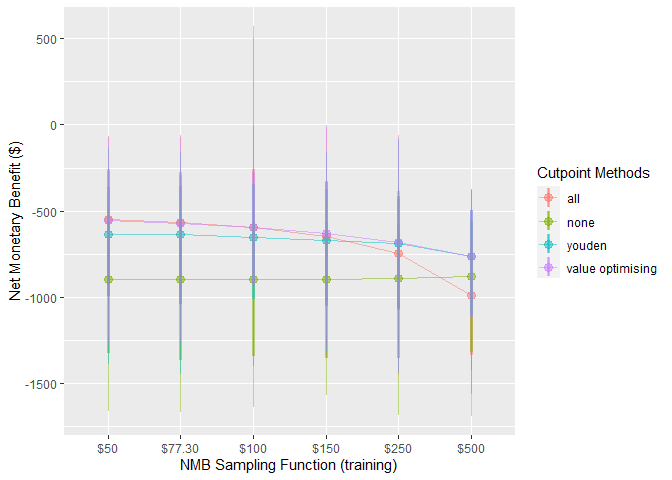
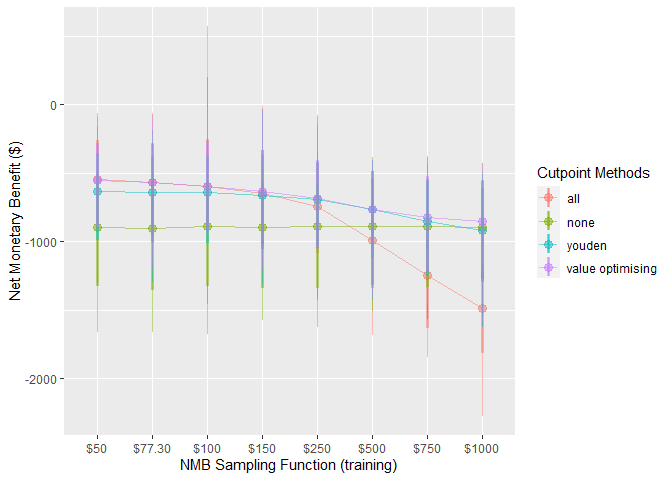
re-knit with new cost_screen obj

diff --git a/demo-code/predictNMB-demo-completed.md b/demo-code/predictNMB-demo-completed.md
@@ -163,10 +163,10 @@ summary(primary_sim)
     # A tibble: 4 × 3
       method           median `95% CI`         
       <chr>             <dbl> <chr>            
-    1 all               -582. -937.2 to -289.3 
-    2 none              -911. -1336.4 to -567.4
-    3 value optimising  -583. -965 to -291.4   
-    4 youden            -654. -1019.4 to -353.6
+    1 all               -580. -961.2 to -283.5 
+    2 none              -907. -1363.3 to -574.4
+    3 value optimising  -593. -965.3 to -297.8 
+    4 youden            -649. -1044.2 to -354.2
 
 ``` r
 autoplot(primary_sim) + theme_sim()
@@ -231,10 +231,10 @@ summary(acute_care_sim)
     # A tibble: 4 × 3
       method           median `95% CI`        
       <chr>             <dbl> <chr>           
-    1 all               -228. -334.2 to -135.4
-    2 none              -271. -407.8 to -169.9
-    3 value optimising  -209. -317.4 to -122.2
-    4 youden            -213. -325.5 to -123.5
+    1 all               -228. -339.8 to -140.1
+    2 none              -271. -418.4 to -168.7
+    3 value optimising  -209. -320.4 to -121.2
+    4 youden            -212. -323 to -127.8  
 
 ``` r
 summary(acute_care_sim, what = "cutpoints")
@@ -246,7 +246,7 @@ summary(acute_care_sim, what = "cutpoints")
     1 all                0    0 to 0  
     2 none               1    1 to 1  
     3 value optimising   0.02 0 to 0.1
-    4 youden             0.03 0 to 0.1
+    4 youden             0.04 0 to 0.1
 
 ``` r
 autoplot(acute_care_sim) + theme_sim()
@@ -303,15 +303,17 @@ cost_screen <- readRDS(gzcon(url("https://github.com/RWParsons/rmed2023-predictN
 summary(cost_screen)
 ```
 
-    # A tibble: 6 × 10
+    # A tibble: 8 × 10
       fx_nmb_train…¹ fx_nm…² all_m…³ all_9…⁴ none_…⁵ none_…⁶ youde…⁷ youde…⁸ value…⁹
       <chr>          <chr>     <dbl> <chr>     <dbl> <chr>     <dbl> <chr>     <dbl>
-    1 A-50           A-50      -546. -869.8…   -895. -1322.…   -633. -992 t…   -553.
-    2 B-77.30        B-77.30   -568. -949.6…   -898. -1368.…   -636. -1041.…   -571.
-    3 C-100          C-100     -594. -937.1…   -893. -1341.…   -653. -1014.…   -596.
-    4 D-150          D-150     -644. -1016.…   -893. -1352.…   -669. -1054.…   -631.
-    5 E-250          E-250     -743. -1075.…   -893. -1353.…   -690. -1062.…   -682.
-    6 F-500          F-500     -991. -1334.…   -880. -1320.…   -764. -1106.…   -763.
+    1 A-50           A-50      -543. -870.8…   -892. -1329.…   -629. -988.2…   -553.
+    2 B-77.30        B-77.30   -566. -928.5…   -904. -1357.…   -640. -1007.…   -568.
+    3 C-100          C-100     -597. -928 t…   -891. -1330.…   -643. -1013.…   -596.
+    4 D-150          D-150     -645. -1021.…   -895. -1343.…   -663. -1057.…   -629.
+    5 E-250          E-250     -741. -1086.…   -886. -1340.…   -692. -1046.…   -681.
+    6 F-500          F-500     -992. -1339.…   -885  -1322.…   -767. -1123 …   -767 
+    7 G-750          G-750    -1247. -1631.…   -891. -1331.…   -852. -1256.…   -824.
+    8 H-1000         H-1000   -1488. -1817.…   -895. -1301.…   -918. -1275.…   -852.
     # … with 1 more variable: `value optimising_95% CI` <chr>, and abbreviated
     #   variable names ¹fx_nmb_training, ²fx_nmb_evaluation, ³all_median,
     #   ⁴`all_95% CI`, ⁵none_median, ⁶`none_95% CI`, ⁷youden_median,
